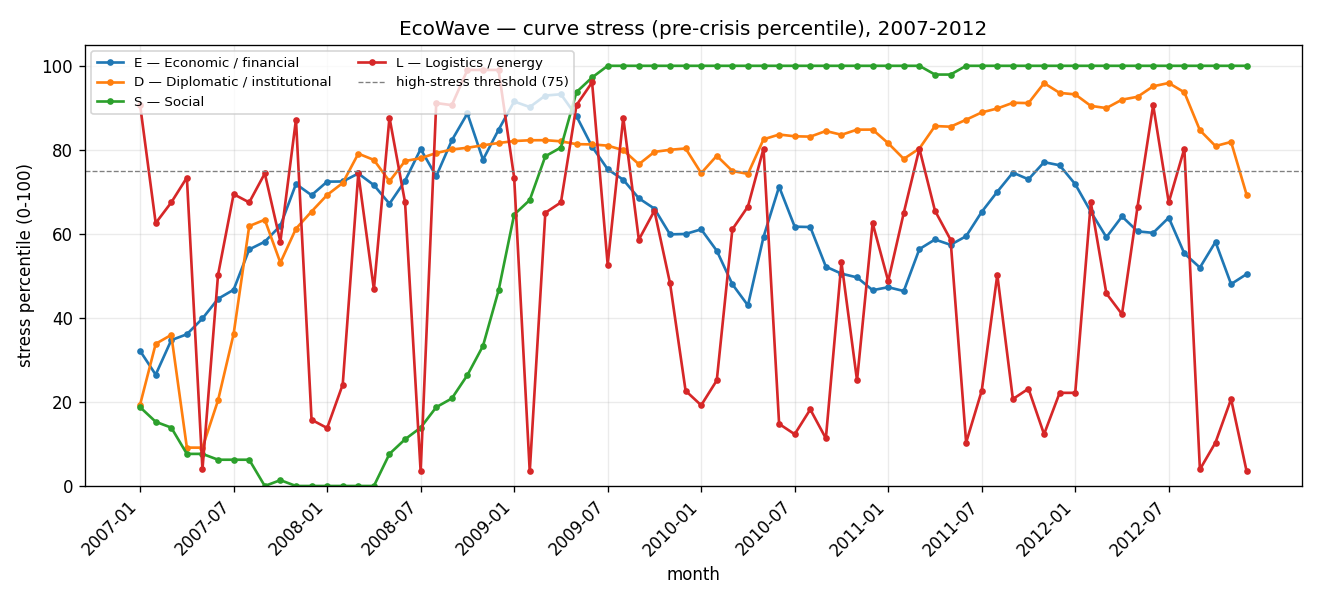
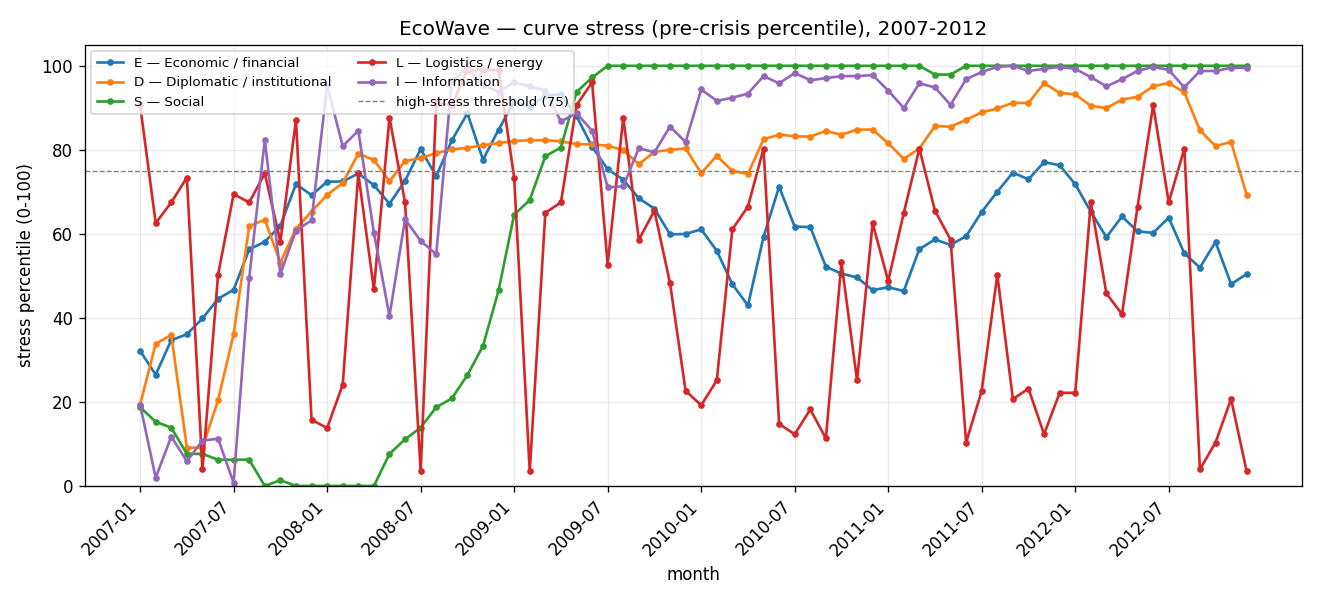
feat: proxy the information (I) curve with news-based EPU (no GDELT)
- I1 = Economic Policy Uncertainty (Baker-Bloom-Davis), US (USEPUINDXM) + Europe
  (EUEPUINDXM): a newspaper-article-count proxy for crisis media volume, confidence C.
- All five curves (E/D/S/L/I) now carry data; C1 reaches 5 confirming curves.
- I2 (media tone) remains missing pending sentiment data.
- Update report/index/figures wording and pipeline end message; refresh docs + CHANGELOG.

diff --git a/ecowave/reports/render_report.py b/ecowave/reports/render_report.py
@@ -64,11 +64,11 @@ Generated: {_ts()}  ·  Mode: `{mode}`
 
 ## Final verdict: PROVISIONAL / BLOCKED
 
-EcoWave does **not** deliver a final analytical verdict in V1. The information (I)
-curve and part of the social curve (S2, protests) have no automatable source, and
-the qualitative scoring criteria (C2, C4, C5, C6) require analyst judgement. All
-{blocked_models} models are therefore marked **blocked**. This is by design
-(see anti-pseudoscience rules).
+EcoWave does **not** deliver a final analytical verdict in V1. The information curve
+is only **proxied** (I1 via news-based EPU; I2 media tone still absent), S2 (protests)
+has no automatable source, and the qualitative scoring criteria (C2, C4, C5, C6)
+require analyst judgement. All {blocked_models} models are therefore marked
+**blocked**. This is by design (see anti-pseudoscience rules).
 
 ## Source completeness
 

diff --git a/ecowave/pipeline.py b/ecowave/pipeline.py
@@ -156,7 +156,7 @@ def run_pilot(settings: Settings, pilot: str, mode: str) -> None:
         typer.echo(f"Run completed PARTIAL — {len(failures)} source(s) failed; verdict provisional/blocked.")
     else:
         typer.echo("Run complete. Verdict remains provisional/blocked "
-                   "(I curve and S2 absent; C2/C4/C5/C6 require analyst judgement).")
+                   "(I curve only proxied, S2 and I2 absent; C2/C4/C5/C6 require analyst judgement).")
 
 
 def _handle_failure(con, settings: Settings, mode: str, run_id: int, component: str,

diff --git a/docs/reports/report_2008_pilot.md b/docs/reports/report_2008_pilot.md
@@ -1,19 +1,19 @@
 # EcoWave — Pilot 2008
 
-Generated: 2026-05-27T17:55:32.313018+00:00  ·  Mode: `strict`
+Generated: 2026-05-27T18:06:42.860852+00:00  ·  Mode: `strict`
 
 ## Final verdict: PROVISIONAL / BLOCKED
 
-EcoWave does **not** deliver a final analytical verdict in V1. The information (I)
-curve and part of the social curve (S2, protests) have no automatable source, and
-the qualitative scoring criteria (C2, C4, C5, C6) require analyst judgement. All
-3 models are therefore marked **blocked**. This is by design
-(see anti-pseudoscience rules).
+EcoWave does **not** deliver a final analytical verdict in V1. The information curve
+is only **proxied** (I1 via news-based EPU; I2 media tone still absent), S2 (protests)
+has no automatable source, and the qualitative scoring criteria (C2, C4, C5, C6)
+require analyst judgement. All 3 models are therefore marked
+**blocked**. This is by design (see anti-pseudoscience rules).
 
 ## Source completeness
 
-- Variables with real data: **11**
-- Variables missing (no V1 source): **6**
+- Variables with real data: **12**
+- Variables missing (no V1 source): **5**
 - Ingestion failures this run: **0** 
 
 ### Curve coverage
@@ -23,7 +23,7 @@ the qualitative scoring criteria (C2, C4, C5, C6) require analyst judgement. All
 | D | 3 |
 | S | 1 |
 | L | 1 |
-| I | 0 |
+| I | 1 |
 
 ### Per-variable status (months 2007-01 .. 2012-12)
 | Variable | available | partial | missing |
@@ -37,7 +37,7 @@ the qualitative scoring criteria (C2, C4, C5, C6) require analyst judgement. All
 | E4 | 24 | 0 | 48 |
 | E5 | 72 | 0 | 0 |
 | E6 | 72 | 0 | 0 |
-| I1 | 0 | 0 | 72 |
+| I1 | 72 | 0 | 0 |
 | I2 | 0 | 0 | 72 |
 | L1 | 72 | 0 | 0 |
 | L2 | 0 | 0 | 72 |

diff --git a/docs/reports/model_comparison.md b/docs/reports/model_comparison.md
@@ -1,6 +1,6 @@
 # EcoWave — Model comparison (Pilot 2008)
 
-Generated: 2026-05-27T17:55:32.314920+00:00  ·  Mode: `strict`
+Generated: 2026-05-27T18:06:42.862892+00:00  ·  Mode: `strict`
 
 ## Scores A / B / C
 
@@ -24,9 +24,9 @@ criteria, but C2/C4/C5/C6 are not yet scored and S/I curves are absent.
 
 ## Computation notes
 
-- A/C1: 4 courbe(s) confirmante(s) (>=2 mois stress>= 75): ['D', 'E', 'L', 'S']
-- A/C3: part d'observations robustes sur les 2 fenêtres = 0.41
-- B/C1: 4 courbe(s) confirmante(s) (>=2 mois stress>= 75): ['D', 'E', 'L', 'S']
-- B/C3: part d'observations robustes sur les 2 fenêtres = 0.41
-- C/C1: 3 courbe(s) confirmante(s) (>=2 mois stress>= 75): ['D', 'E', 'L']
-- C/C3: part d'observations robustes sur les 2 fenêtres = 0.57
+- A/C1: 5 courbe(s) confirmante(s) (>=2 mois stress>= 75): ['D', 'E', 'I', 'L', 'S']
+- A/C3: part d'observations robustes sur les 2 fenêtres = 0.42
+- B/C1: 5 courbe(s) confirmante(s) (>=2 mois stress>= 75): ['D', 'E', 'I', 'L', 'S']
+- B/C3: part d'observations robustes sur les 2 fenêtres = 0.42
+- C/C1: 4 courbe(s) confirmante(s) (>=2 mois stress>= 75): ['D', 'E', 'I', 'L']
+- C/C3: part d'observations robustes sur les 2 fenêtres = 0.58

diff --git a/docs/index.md b/docs/index.md
@@ -5,10 +5,11 @@
 **2007–2012 systemic crisis** — without falling into pseudoscience.
 
 !!! warning "Provisional / blocked by design"
-    EcoWave V1 does **not** issue a final analytical verdict. The social (S) and
-    information (I) curves have no automatable data source in V1, and four of the
-    six scoring criteria require analyst judgement. Every model is reported as
-    **blocked**. This is a deliberate guardrail, not a bug.
+    EcoWave V1 does **not** issue a final analytical verdict. The information curve is
+    only proxied (I1 via news-based EPU; I2 tone absent), the social protest variable
+    (S2) has no automatable source, and four of the six scoring criteria require
+    analyst judgement. Every model is reported as **blocked**. This is a deliberate
+    guardrail, not a bug.
 
 ## What it does
 

diff --git a/CHANGELOG.md b/CHANGELOG.md
@@ -6,6 +6,11 @@ Format based on [Keep a Changelog](https://keepachangelog.com/).
 ## [Unreleased]
 
 ### Added
+- **Information (I) curve proxied without GDELT**: I1 = news-based Economic Policy
+  Uncertainty (Baker-Bloom-Davis) for US (`USEPUINDXM`) + Europe (`EUEPUINDXM`),
+  a newspaper-article-count measure of crisis media volume (confidence C). All five
+  curves now carry data → C1 reaches 5 confirming curves (E/D/S/L/I). I2 (media tone)
+  stays `missing` pending sentiment data.
 - **Curve figures**: the pipeline now renders `curve_stress.png` (stress per curve
   E/D/S/L 2007-2012) and `model_windows.png` (A/B/C candidate windows vs mean stress),
   published under a new **Curves** section of the site.

diff --git a/docs/figures.md b/docs/figures.md
@@ -6,8 +6,9 @@ the high-stress threshold (75) used by the C1 synchronisation criterion.
 
 ## Curve stress, 2007–2012
 
-Stress aggregated by curve (E economic, D institutional, S social, L logistics).
-The information (I) curve has no automatable source in V1 and is therefore absent.
+Stress aggregated by curve (E economic, D institutional, S social, L logistics,
+I information). The I curve is a **proxy** (I1 = news-based EPU); its tone component
+(I2) is still absent.
 
 ![Curve stress 2007-2012](figures/curve_stress.png)
 

diff --git a/docs/reports/validation_summary.md b/docs/reports/validation_summary.md
@@ -1,6 +1,6 @@
 # EcoWave — Validation summary (Pilot 2008)
 
-Generated: 2026-05-27T17:55:32.315618+00:00  ·  Mode: `strict`
+Generated: 2026-05-27T18:06:42.863710+00:00  ·  Mode: `strict`
 
 ## Run outcome
 